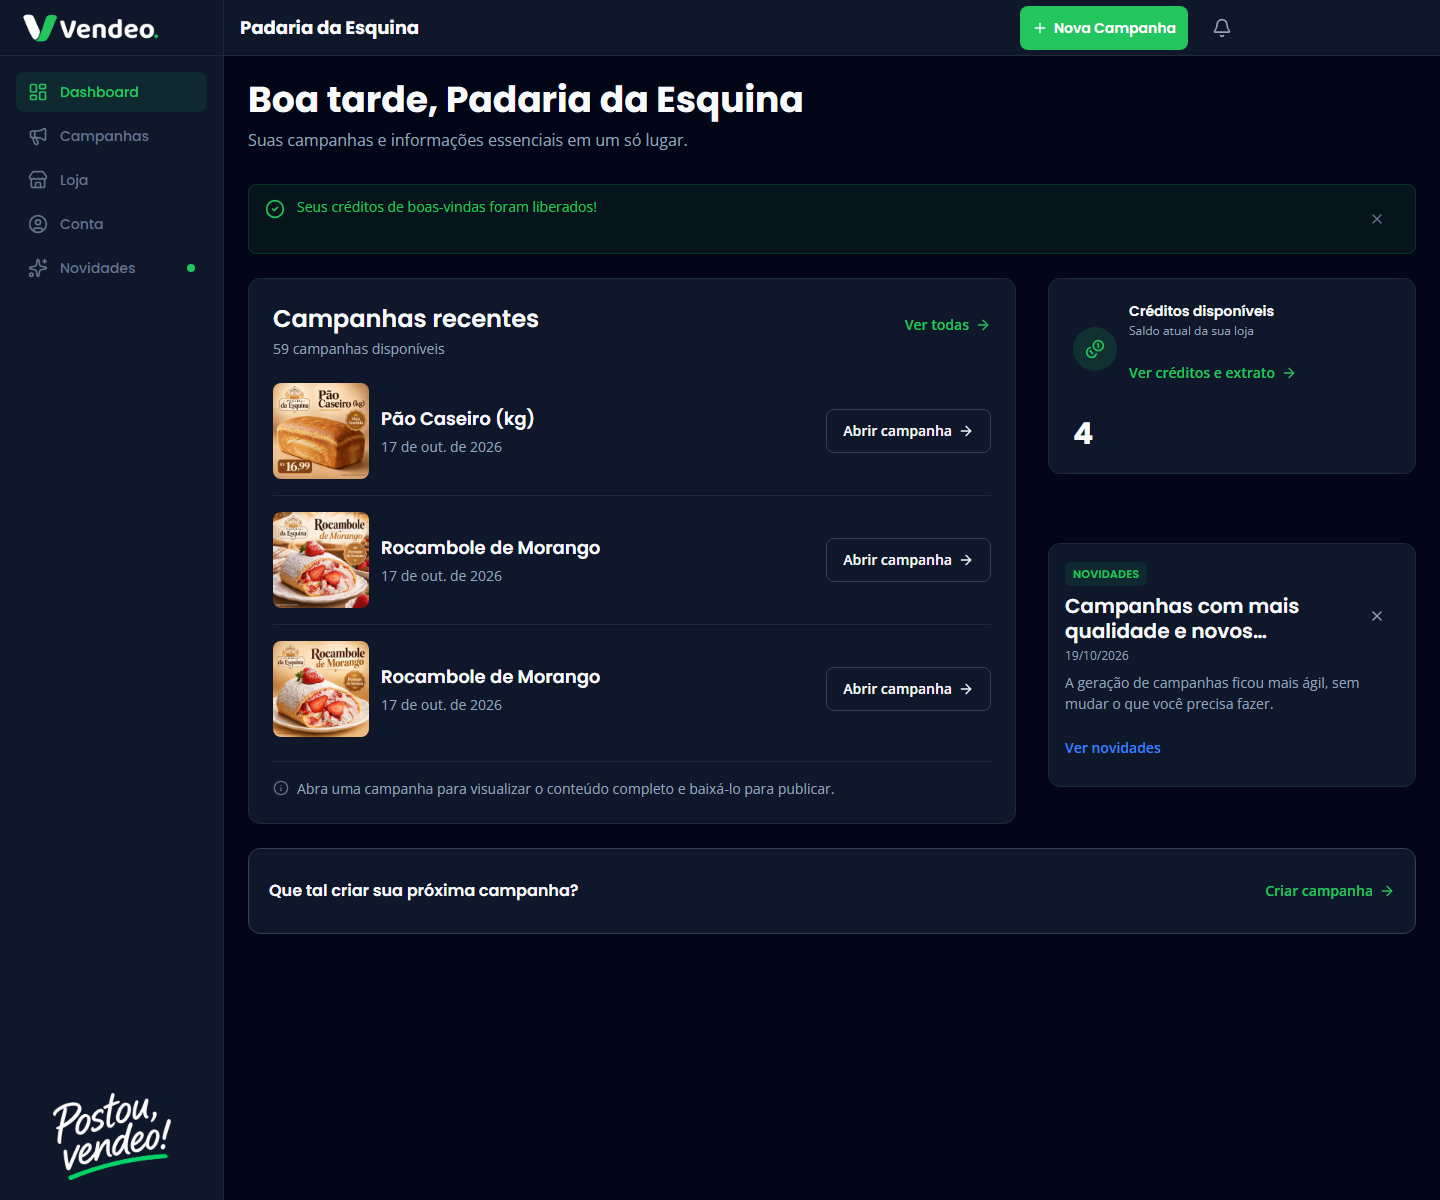
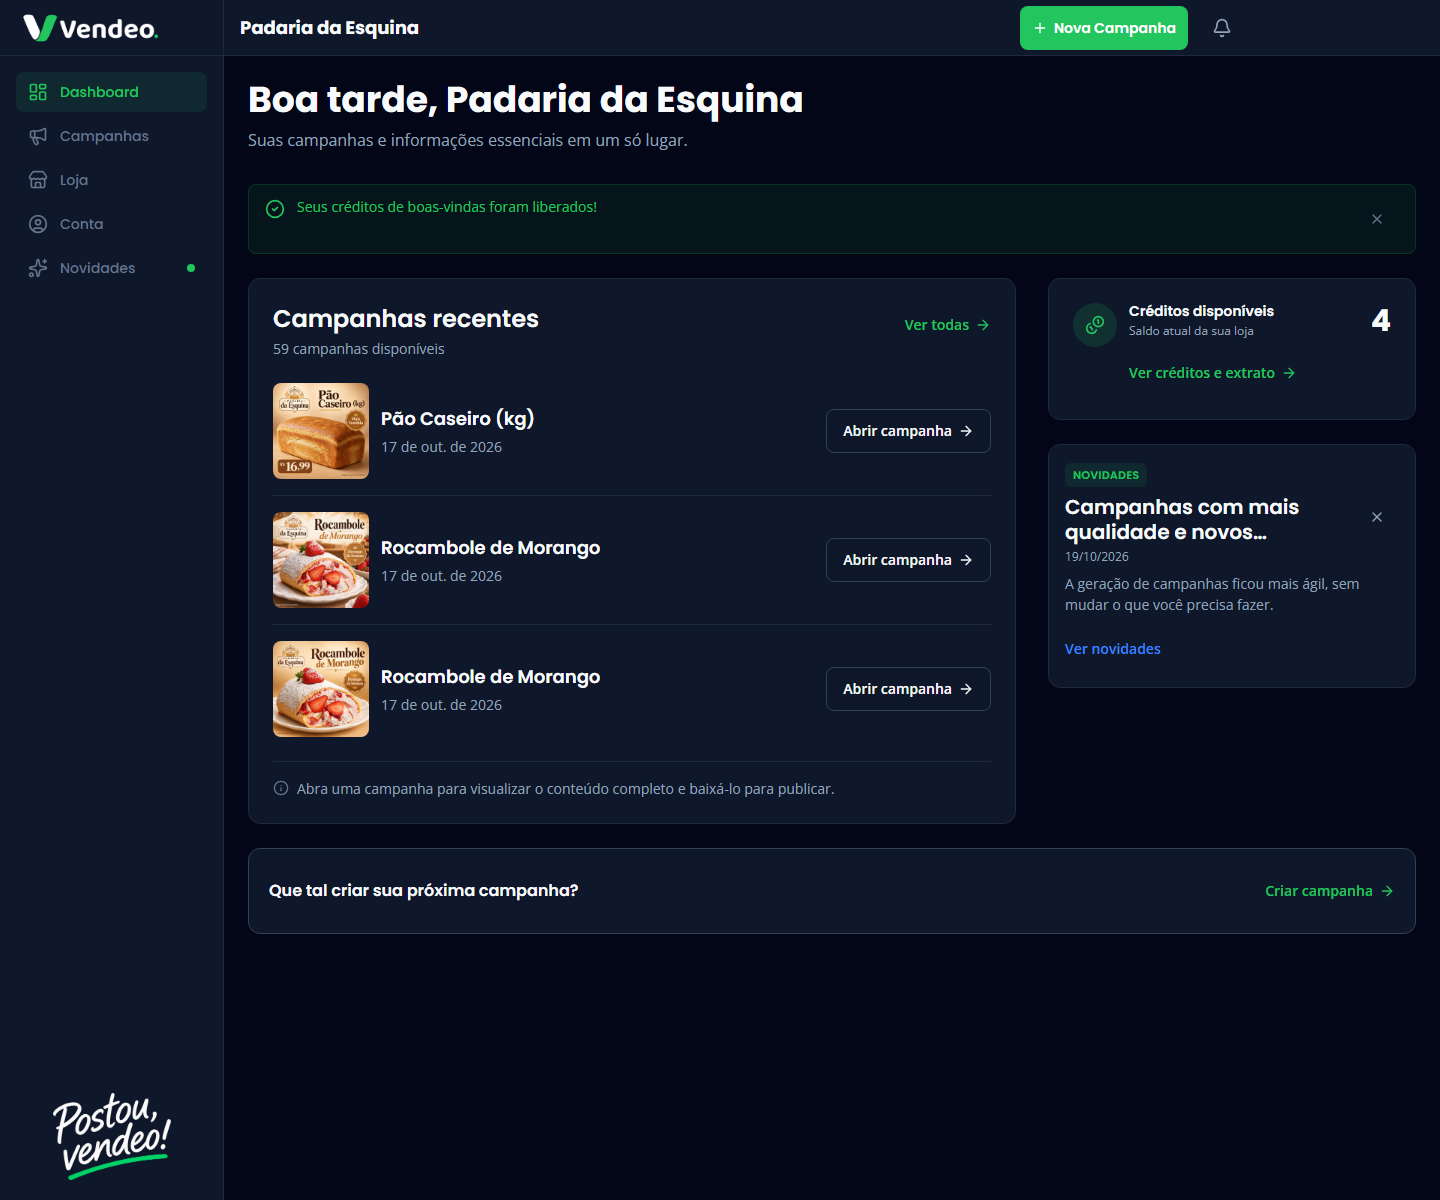
fix(58): refine credits hierarchy and independent sidebar stack

Changed region(s): [[0.7188, 0.3392, 0.9375, 0.6475], [0.75, 0.2467, 0.7812, 0.3083], [0.9375, 0.2467, 0.9688, 0.2775]]

diff --git a/src/components/dashboard/dashboard-credits.tsx b/src/components/dashboard/dashboard-credits.tsx
@@ -15,9 +15,9 @@ interface DashboardCreditsProps {
 /**
  * Bloco de créditos do dashboard (F58).
  *
- * Distingue explicitamente `available`, `zero` e `unavailable`. O estado zero
- * renderiza apenas a string completa localizada (`0 créditos`), nunca número e
- * unidade adicionais. O estado indisponível nunca renderiza `0` ou `—`.
+ * Desktop: ícone, título/descrição e valor no mesmo conjunto; ação abaixo.
+ * Mobile: bloco compacto horizontal, com ação abaixo do título e valor à direita.
+ * Distingue `available`, `zero` e `unavailable` sem alterar regras de crédito.
  */
 export function DashboardCredits({
   state,
@@ -31,53 +31,62 @@ export function DashboardCredits({
         ? messages.zero
         : null;
 
+  const action = (
+    <Link
+      href="/conta"
+      aria-label={messages.detailsAria}
+      className="inline-flex min-h-[44px] items-center gap-1.5 text-sm font-semibold text-accent-green hover:underline focus-visible:outline-none focus-visible:ring-2 focus-visible:ring-accent-blue focus-visible:ring-offset-2 focus-visible:ring-offset-bg-deep"
+    >
+      {messages.detailsLink}
+      <ArrowRight className="h-4 w-4" aria-hidden="true" />
+    </Link>
+  );
+
   return (
     <section aria-labelledby="credits-title" className="min-w-0">
       <Card className="border-accent-green/30 bg-accent-green/5 p-4 sm:p-6">
-        <div className="flex items-center gap-3 sm:flex-col sm:items-start">
-          <div className="flex min-w-0 items-center gap-3">
-            <span className="flex h-11 w-11 shrink-0 items-center justify-center rounded-full bg-accent-green/15">
-              <Coins className="h-5 w-5 text-accent-green" aria-hidden="true" />
-            </span>
-            <div className="min-w-0">
-              <h2
-                id="credits-title"
-                className="font-heading text-sm font-semibold leading-tight text-text-primary"
-              >
-                {messages.sectionLabel}
-              </h2>
-              <p className="mt-0.5 hidden text-xs text-text-secondary font-body sm:block">
-                {messages.description}
-              </p>
-              <Link
-                href="/conta"
-                aria-label={messages.detailsAria}
-                className="mt-1 inline-flex min-h-[44px] items-center gap-1.5 text-sm font-semibold text-accent-green hover:underline focus-visible:outline-none focus-visible:ring-2 focus-visible:ring-accent-blue focus-visible:ring-offset-2 focus-visible:ring-offset-bg-deep sm:mt-3"
-              >
-                {messages.detailsLink}
-                <ArrowRight className="h-4 w-4" aria-hidden="true" />
-              </Link>
-            </div>
-          </div>
+        <div className="flex items-center gap-3 sm:items-start">
+          <span className="flex h-11 w-11 shrink-0 items-center justify-center rounded-full bg-accent-green/15">
+            <Coins className="h-5 w-5 text-accent-green" aria-hidden="true" />
+          </span>
 
-          <div className="ml-auto shrink-0 text-right sm:ml-0 sm:mt-3 sm:text-left">
-            {state.state === "unavailable" ? (
-              <p className="flex items-center justify-end gap-1.5 text-sm font-semibold text-text-secondary font-heading sm:justify-start">
-                <AlertCircle
-                  className="h-4 w-4 text-accent-amber"
-                  aria-hidden="true"
-                />
-                {messages.unavailable}
-              </p>
-            ) : (
-              <p
-                className={`font-heading font-bold leading-none text-text-primary tabular-nums ${
-                  state.state === "zero" ? "text-2xl" : "text-3xl"
-                }`}
-              >
-                {value}
-              </p>
-            )}
+          <div className="min-w-0 flex-1">
+            <div className="flex items-center gap-3">
+              <div className="min-w-0">
+                <h2
+                  id="credits-title"
+                  className="font-heading text-sm font-semibold leading-tight text-text-primary"
+                >
+                  {messages.sectionLabel}
+                </h2>
+                <p className="mt-0.5 hidden text-xs text-text-secondary font-body sm:block">
+                  {messages.description}
+                </p>
+                <div className="mt-1 sm:hidden">{action}</div>
+              </div>
+
+              <div className="ml-auto shrink-0 text-right">
+                {state.state === "unavailable" ? (
+                  <p className="flex items-center justify-end gap-1.5 text-sm font-semibold text-text-secondary font-heading">
+                    <AlertCircle
+                      className="h-4 w-4 text-accent-amber"
+                      aria-hidden="true"
+                    />
+                    {messages.unavailable}
+                  </p>
+                ) : (
+                  <p
+                    className={`font-heading font-bold leading-none text-text-primary tabular-nums ${
+                      state.state === "zero" ? "text-2xl" : "text-3xl"
+                    }`}
+                  >
+                    {value}
+                  </p>
+                )}
+              </div>
+            </div>
+
+            <div className="mt-3 hidden sm:block">{action}</div>
           </div>
         </div>
       </Card>

diff --git a/src/__tests__/app/dashboard/dashboard-layout-order.test.tsx b/src/__tests__/app/dashboard/dashboard-layout-order.test.tsx
@@ -126,16 +126,15 @@ beforeEach(() => {
 });
 
 describe("DashboardPage — ordem responsive e placements", () => {
-  it("posiciona créditos, campanhas e novidades nessa ordem no DOM", async () => {
+  it("preserva a ordem mobile créditos → campanhas → novidades por order classes", async () => {
     const html = await renderPage();
 
-    const credits = html.indexOf("credits-title");
-    const campaigns = html.indexOf("campaigns-title");
-    const news = html.indexOf('aria-label="Novidades"');
-
-    expect(credits).toBeGreaterThan(-1);
-    expect(campaigns).toBeGreaterThan(credits);
-    expect(news).toBeGreaterThan(campaigns);
+    expect(html).toContain("order-1");
+    expect(html).toContain("order-2");
+    expect(html).toContain("order-3");
+    expect(html.indexOf("credits-title")).toBeGreaterThan(-1);
+    expect(html.indexOf("campaigns-title")).toBeGreaterThan(-1);
+    expect(html.indexOf('aria-label="Novidades"')).toBeGreaterThan(-1);
   });
 
   it("usa placements explícitos do desktop", async () => {
@@ -143,17 +142,20 @@ describe("DashboardPage — ordem responsive e placements", () => {
 
     expect(html).toContain("lg:col-start-3");
     expect(html).toContain("lg:row-start-1");
-    expect(html).toContain("lg:row-start-2");
-    expect(html).toContain("lg:row-span-2");
     expect(html).toContain("lg:col-span-2");
     expect(html).toContain("lg:col-start-1");
+    expect(html).toContain("lg:flex");
+    expect(html).toContain("lg:flex-col");
+    expect(html).toContain("lg:gap-6");
     expect(html).toContain("lg:grid-cols-3");
   });
 
-  it("não usa CSS order", async () => {
+  it("usa order apenas para preservar a ordem mobile do wrapper", async () => {
     const html = await renderPage();
 
-    expect(html).not.toMatch(/(^|["\s])order-(first|last|none|\d)/);
+    expect(html).toContain("order-1");
+    expect(html).toContain("order-2");
+    expect(html).toContain("order-3");
     expect(html).not.toContain('style="order');
   });
 

diff --git a/src/app/(app)/dashboard/page.tsx b/src/app/(app)/dashboard/page.tsx
@@ -141,15 +141,27 @@ export default async function DashboardPage() {
       />
 
       <div className="grid grid-cols-1 gap-6 lg:grid-cols-3 lg:gap-8">
-        <div className="min-w-0 lg:col-start-3 lg:row-start-1">
-          <DashboardCredits
-            state={credit.ok ? credit.data : { state: "unavailable" }}
-            messages={messages.credits}
-            locale={locale}
-          />
+        <div className="contents lg:col-start-3 lg:row-start-1 lg:flex lg:flex-col lg:gap-6">
+          <div className="order-1 min-w-0 lg:order-none">
+            <DashboardCredits
+              state={credit.ok ? credit.data : { state: "unavailable" }}
+              messages={messages.credits}
+              locale={locale}
+            />
+          </div>
+
+          {entry ? (
+            <div className="order-3 min-w-0 lg:order-none">
+              <DashboardNews
+                entry={entry}
+                excerpt={excerpt}
+                labels={messages.news}
+              />
+            </div>
+          ) : null}
         </div>
 
-        <div className="min-w-0 lg:col-span-2 lg:col-start-1 lg:row-start-1 lg:row-span-2">
+        <div className="order-2 min-w-0 lg:order-none lg:col-span-2 lg:col-start-1 lg:row-start-1">
           <DashboardCampaigns
             count={campaign.ok ? campaign.data.count : 0}
             items={items}
@@ -159,16 +171,6 @@ export default async function DashboardPage() {
             openAriaLabels={openAriaLabels}
           />
         </div>
-
-        {entry ? (
-          <div className="min-w-0 lg:col-start-3 lg:row-start-2">
-            <DashboardNews
-              entry={entry}
-              excerpt={excerpt}
-              labels={messages.news}
-            />
-          </div>
-        ) : null}
       </div>
 
       <DashboardShortcut messages={messages.shortcut} />

diff --git a/.planning/phases/58-f58-composi-o-operacional-do-dashboard/evidence/58-05-visual-captures.md b/.planning/phases/58-f58-composi-o-operacional-do-dashboard/evidence/58-05-visual-captures.md
@@ -14,21 +14,32 @@
 | Mobile | `evidence/58-05-visual-mobile.png` | 390 × 844 (full page) | não |
 | Mobile estreito | `evidence/58-05-visual-mobile-320.png` | 320 × 800 (full page) | não |
 
+## Capturas es-419
+
+Autorização específica recebida para alterar temporariamente o idioma do usuário de teste no homolog local via fluxo existente de Configurações, gerar as capturas e restaurar o valor original.
+
+| Viewport | Arquivo | Dimensões |
+|---|---|---|
+| Desktop | `evidence/58-05-visual-desktop-es.png` | 1440 × 1200 |
+| Mobile | `evidence/58-05-visual-mobile-es.png` | 390 × 844 (full page) |
+
+**Restauração confirmada:** `user_preferences` do usuário de teste voltou a `ui_locale = pt-BR`, `ui_locale_source = explicit`. A versão de CAS avançou de 2 para 4 durante as duas gravações (es-419 → pt-BR); nenhum outro dado, schema ou regra foi alterado. O dashboard voltou a renderizar “Campanhas recentes” após a restauração.
+
 ## Composição verificada
 
 - Cabeçalho com saudação em destaque e subtítulo; sem botões internos de criação/configuração.
-- Painel único “Campanhas recentes”, contagem secundária de disponíveis, “Ver todas” no cabeçalho.
-- Até três linhas com miniatura, nome, data e ação visível “Abrir campanha”; divisórias entre linhas.
+- Painel único “Campanhas recentes” / “Campañas recientes”, contagem secundária de disponíveis, “Ver todas” no cabeçalho.
+- Até três linhas com miniatura, nome, data e ação visível “Abrir campanha” / “Abrir campaña”; divisórias entre linhas.
 - Orientação dentro do painel, após divisória.
-- Créditos destacados na lateral (desktop) e bloco compacto horizontal (mobile).
-- Novidades diretamente abaixo dos créditos na lateral, com badge “Novidades”.
-- Faixa inferior de largura total “Que tal criar sua próxima campanha?” com “Criar campanha”.
+- Créditos destacados com ícone, valor, descrição e ação “Ver créditos e extrato” / “Ver créditos y extracto”.
+- Novidades diretamente abaixo dos créditos na lateral, com badge localizado.
+- Faixa inferior de largura total “Que tal criar sua próxima campanha?” / “¿Qué tal crear tu próxima campaña?” com “Criar campanha” / “Crear campaña”.
 - Mobile: créditos → campanhas → novidades → faixa de criação; sem overflow em 320 px.
 - Shell, sidebar, topbar, logo e assinatura preservados.
 
 ## Limitações
 
 - As capturas são de homolog local, não de produção.
-- **Capturas es-419 não foram geradas nesta rodada:** o único usuário com loja e campanhas no homolog está com preferência `pt-BR`; gerar es-419 exigiria alterar `user_preferences` (banco), o que esta rodada proíbe explicitamente. A cobertura es-419 permanece por testes automatizados de catálogo/página, não por captura visual.
+- Não representam deploy, smoke ou aceite de produção.
 - A comparação com as montagens de referência é visual/humana; nenhuma conclusão de aceite é registrada aqui.
-- As capturas não comprovam produção, deploy ou smoke.
+- As capturas não comprovam leitor de tela real; acessibilidade por teclado/labels segue como validação manual pendente.

diff --git a/.planning/phases/58-f58-composi-o-operacional-do-dashboard/evidence/58-05-automated-gates.md b/.planning/phases/58-f58-composi-o-operacional-do-dashboard/evidence/58-05-automated-gates.md
@@ -271,6 +271,7 @@ Ajustes visuais solicitados: lista compacta de três campanhas com miniaturas pe
 | OpenSpec strict | `openspec validate fase-58-composi-o-operacional-do-dashboard --strict` | **0** | valid |
 
 Capturas reais em produção local (`next build` + `next start`): `evidence/58-05-visual-desktop.png` e `evidence/58-05-visual-mobile.png`, com metadados em `evidence/58-05-visual-captures.md`. Nenhum deploy, push, merge, migration ou alteração de produção. As capturas aguardam aceite humano.
+
 ## 8. Reconciliação visual com as montagens (2026-11-02)
 
 A composição foi corrigida para a montagem aprovada: cabeçalho com subtítulo e sem botões internos; painel único “Campanhas recentes” com contagem secundária, “Ver todas” e ação visível “Abrir campanha”; orientação dentro do painel; créditos destacados; novidades abaixo dos créditos; faixa inferior de criação de largura total.
@@ -282,4 +283,4 @@ A composição foi corrigida para a montagem aprovada: cabeçalho com subtítulo
 | Build | `npm.cmd run build` | **0** | **95/95 páginas**; `/dashboard` **4,50 kB / 110 kB**; shared **102 kB** |
 | OpenSpec strict | `openspec validate fase-58-composicao-operacional-do-dashboard --strict` | **0** | valid |
 
-Capturas reais: `evidence/58-05-visual-desktop.png`, `evidence/58-05-visual-mobile.png` e `evidence/58-05-visual-mobile-320.png`. Metadados e limitações em `evidence/58-05-visual-captures.md`. Capturas es-419 não foram geradas porque isso exigiria alterar preferência no banco, proibido nesta rodada; a cobertura es-419 segue em testes automatizados. Nenhum push, merge, deploy, migration, alteração de banco ou de produção foi executado.
+Capturas reais pt-BR: `evidence/58-05-visual-desktop.png`, `evidence/58-05-visual-mobile.png` e `evidence/58-05-visual-mobile-320.png`. Capturas es-419: `evidence/58-05-visual-desktop-es.png` e `evidence/58-05-visual-mobile-es.png`. Metadados e restauração da preferência em `evidence/58-05-visual-captures.md`. Nenhum push, merge, deploy, migration, alteração de schema ou produção foi executado. A única escrita temporária foi a preferência de idioma do usuário de teste no homolog, autorizada, com restauração confirmada para `pt-BR`/`explicit`.

diff --git a/.planning/phases/58-f58-composi-o-operacional-do-dashboard/58-UI-SPEC.md b/.planning/phases/58-f58-composi-o-operacional-do-dashboard/58-UI-SPEC.md
@@ -142,7 +142,7 @@ Rules:
   - Campaigns: `lg:col-span-2 lg:col-start-1 lg:row-start-1 lg:row-span-2` (primary column).
   - Credits: `lg:col-start-3 lg:row-start-1` (highlighted).
   - News: `lg:col-start-3 lg:row-start-2`.
-  - Use explicit `col-start`/`row-start`, never CSS `order`.
+  - Use explicit `col-start`/`row-start` for desktop placement. Mobile may use scoped `order-1/2/3` only to preserve credits → campaigns → news while credits/news share an independent desktop stack.
 - The fixed creation band is a full-width section below the grid, never a sidebar card.
 - Mobile DOM order: credits → campaigns → news → fixed creation band. The shortcut never appears between credits and news.
 - `no_store`: header (neutral welcome) + `EmptyState` only. **No** credits query, no campaigns query, no announcement, no banner. Header shows **no** action buttons; the single CTA lives in the empty state to avoid duplication.
